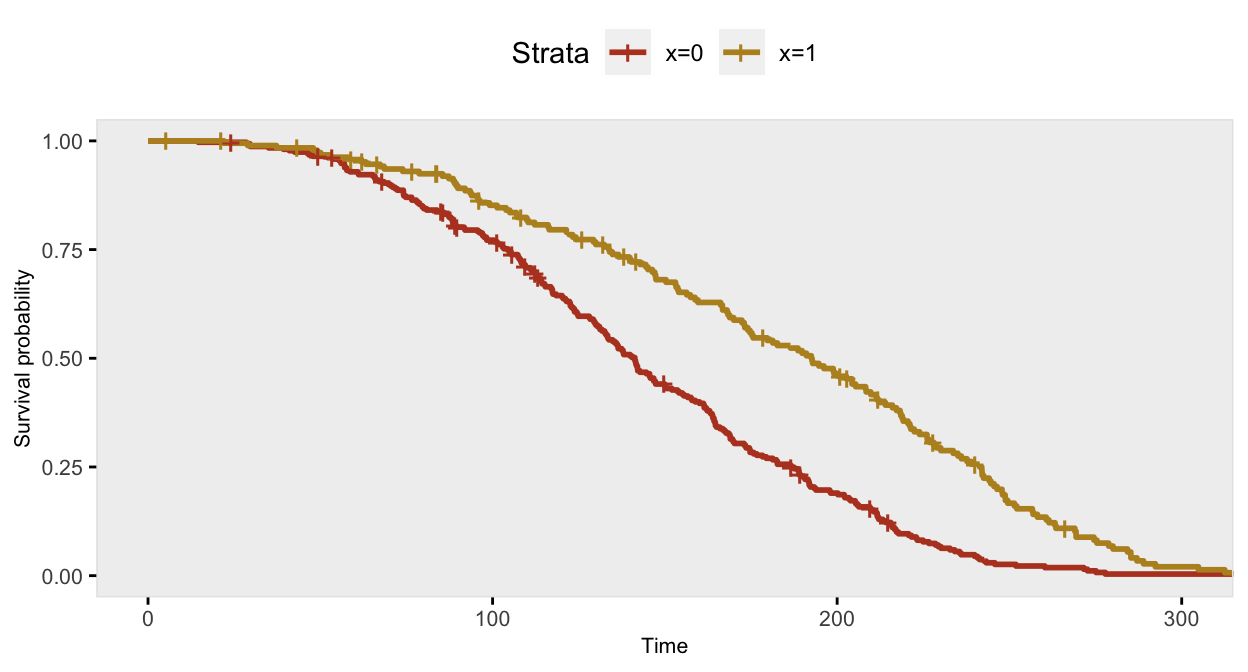
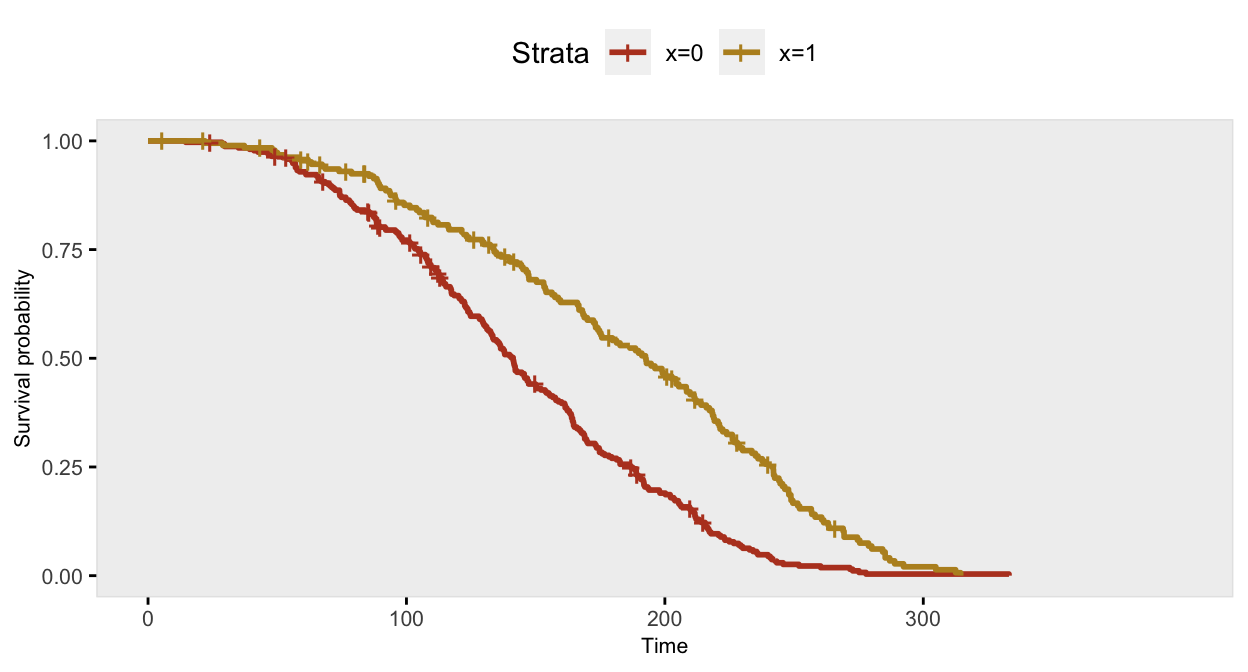
Updating non prop draft

diff --git a/content/post/2022-03-08-simulating-non-proportional-hazards/index.en.html b/content/post/2022-03-08-simulating-non-proportional-hazards/index.en.html
@@ -1,5 +1,5 @@
 ---
-title: Simulating non-proportional hazards
+title: Simulating time-to-event outcomes with non-proportional hazards
 author: Package Build
 date: '2022-03-08'
 slug: []
@@ -16,47 +16,39 @@ draft: TRUE
 <script src="{{< blogdown/postref >}}index.en_files/header-attrs/header-attrs.js"></script>
 
 
+<p>I am working on an update of <code>simstudy</code> that will make generating survival/time-to-event data a bit more flexible. There are two biggish enhancements. The first allows for the possibility of generating survival data that has time-dependent hazard ratios, and the second facilitates generation of competing events. This post focuses on the first enhancement, and a follow up will provide examples of the second. (If you want to try this at home, you will need the development version of <code>simstudy</code> that you can install using <strong>devtools::install_github(“kgoldfeld/simstudy”)</strong>.)</p>
+<div id="constantproportional-hazard-ratio" class="section level3">
+<h3>Constant/proportional hazard ratio</h3>
+<p>In the current version of <code>simstudy 0.4.0</code> on <code>CRAN</code>, the data generation process for survival/time-to-event outcomes can include covariates that effect the hazard rate (which is the risk/probability of having an event conditional on not having had experienced that event earlier). The ratio of hazards comparing different levels of a covariate are constant across all time points. For example, if we have a single binary covariate <span class="math inline">\(x\)</span>, the hazard <span class="math inline">\(\lambda(t)\)</span> at time <span class="math inline">\(t\)</span> is
+<span class="math display">\[\lambda(t|x) = \lambda_0(t) e ^ {\beta x}\]</span>
+where <span class="math inline">\(\lambda_0(t)\)</span> is a baseline hazard when <span class="math inline">\(x=0\)</span>. The ratio of the hazards for <span class="math inline">\(x=1\)</span> compared to <span class="math inline">\(x=0\)</span> is
+<span class="math display">\[\frac{\lambda_0(t) e ^ {\beta}}{\lambda_0(t)} = e ^ \beta,\]</span>
+so the log of the hazard ratio is a constant <span class="math inline">\(\beta\)</span>, and the hazard ratio is always <span class="math inline">\(e^\beta\)</span>. To start, here is an example assuming a constant log hazard ratio of <span class="math inline">\(-0.7\)</span>:</p>
 <pre class="r"><code>library(simstudy)
 library(data.table)
-library(survival)
-library(survminer)
-library(ggplot2)</code></pre>
-<pre class="r"><code>cbbPalette &lt;- c(&quot;#B84226&quot;,&quot;#B88F26&quot;, &quot;#A5B435&quot;, &quot;#1B8446&quot;,
-                &quot;#B87326&quot;,&quot;#B8A526&quot;, &quot;#6CA723&quot;, &quot;#1C5974&quot;) 
-
-ggtheme &lt;- function(panelback = &quot;white&quot;) {
-  
-  ggplot2::theme(
-    panel.background = ggplot2::element_rect(fill = panelback),
-    panel.grid = ggplot2::element_blank(),
-    axis.ticks =  ggplot2::element_line(colour = &quot;black&quot;),
-    panel.spacing = ggplot2::unit(0.25, &quot;lines&quot;),  # requires package grid
-    panel.border = ggplot2::element_rect(fill = NA, colour=&quot;gray90&quot;), 
-    plot.title = ggplot2::element_text(size = 8,vjust=.5,hjust=0),
-    axis.text = ggplot2::element_text(size=8),
-    axis.title = ggplot2::element_text(size = 8)
-  )  
-  
-}</code></pre>
-<p>In the standard <code>simstudy</code> data generation process for survival/time-to-event outcomes that includes covariates that effect the hazard rate at various time points, the ratio of hazards comparing different levels of a covariate are constant across all time points. For example, if we have a single binary covariate <span class="math inline">\(x\)</span>, the hazard <span class="math inline">\(\lambda(t)\)</span> at time <span class="math inline">\(t\)</span> is</p>
-<p><span class="math display">\[\lambda(t|x) = \lambda_0(t) e ^ {\beta x}\]</span>
-where <span class="math inline">\(\lambda_0(t)\)</span> is a baseline hazard when <span class="math inline">\(x=0\)</span>. The ratio of the hazards for <span class="math inline">\(x=1\)</span> compared to <span class="math inline">\(x=0\)</span> is</p>
-<p><span class="math display">\[\frac{\lambda_0(t) e ^ {\beta}}{\lambda_0(t)} = e ^ \beta,\]</span></p>
-<p>so the log of the hazard ratio is a constant <span class="math inline">\(\beta\)</span>, and the hazard ratio is always <span class="math inline">\(e^\beta\)</span>.</p>
-<p>However, we may not always want to make the assumption that the hazard ratio is constant over all time periods. To facilitate this, it is possible to specify two different data definitions for the same outcome, using the <em>transition</em> field to specify when the second definition replaces the first. (While it would theoretically be possible to generate data for more than two periods, the process is more involved, and has not been implemented at this time.)</p>
-<p><br></p>
-<p><strong>Constant/proportional hazard ratio</strong></p>
-<p>To start, here is an example assuming a constant log hazard ratio of -0.7:</p>
+library(survival)</code></pre>
 <pre class="r"><code>def &lt;- defData(varname = &quot;x&quot;, formula = 0.4, dist = &quot;binary&quot;)
 
-defS &lt;- defSurv(varname = &quot;death&quot;, formula = &quot;-14.6 - 0.7*x&quot;, shape = 0.35)
+defS &lt;- defSurv(varname = &quot;death&quot;, formula = &quot;-14.6 - 0.7 * x&quot;, shape = 0.35)
 defS &lt;- defSurv(defS, varname = &quot;censor&quot;, scale = exp(13), shape = 0.5)
 
 set.seed(7361)
 dd &lt;- genData(500, def)
 dd &lt;- genSurv(dd, defS, digits = 2, timeName = &quot;time&quot;, censorName = &quot;censor&quot;)
-
-fit &lt;- survfit(Surv(time, event) ~ x, data = dd)</code></pre>
+dd</code></pre>
+<pre><code>##       id x   time event   type
+##   1:   1 0 164.98     1  death
+##   2:   2 1 247.84     1  death
+##   3:   3 0  28.54     1  death
+##   4:   4 0 138.05     1  death
+##   5:   5 0 228.53     1  death
+##  ---                          
+## 496: 496 0  79.47     1  death
+## 497: 497 1   5.41     0 censor
+## 498: 498 1 211.54     1  death
+## 499: 499 0 240.73     1  death
+## 500: 500 1 256.66     1  death</code></pre>
+<p>Here is a Kaplan-Meier plot comparing survival curves for cases where <span class="math inline">\(x=0\)</span> with cases where <span class="math inline">\(x=1\)</span>. This is what a proportional hazard rate looks like:</p>
 <p><img src="{{< blogdown/postref >}}index.en_files/figure-html/unnamed-chunk-4-1.png" width="624" /></p>
 <p>The Cox proportional hazards model recovers the correct log hazards rate:</p>
 <pre class="r"><code>coxfit &lt;- coxph(formula = Surv(time, event) ~ x, data = dd)</code></pre>
@@ -431,25 +423,26 @@ fit &lt;- survfit(Surv(time, event) ~ x, data = dd)</code></pre>
   </tfoot>
 </table>
 </div>
-<p>We can test the assumption of proportional hazards using weighted residuals. If the <span class="math inline">\(\text{p-value} &lt; 0.05\)</span>, then we would conclude that the assumption of proportional hazards is not warranted. In this case <span class="math inline">\(p = 0.22\)</span>, so the model is apparently reasonable:</p>
+<p>Since we know that we used proportional hazards to generate the data, we can expect that a test evaluating the proportional hazards assumption using weighted residuals will confirm that the assumption is met. If the <span class="math inline">\(\text{p-value} &lt; 0.05\)</span>, then we would conclude that the assumption of proportional hazards is not warranted. In this case <span class="math inline">\(p = 0.68\)</span>, so the model is apparently reasonable (which we already knew):</p>
 <pre class="r"><code>cox.zph(coxfit)</code></pre>
 <pre><code>##        chisq df    p
 ## x       0.17  1 0.68
 ## GLOBAL  0.17  1 0.68</code></pre>
-<p><br></p>
-<p><strong>Non-constant/non-proportional hazard ratio</strong></p>
+</div>
+<div id="non-constantnon-proportional-hazard-ratio" class="section level3">
+<h3>Non-constant/non-proportional hazard ratio</h3>
+<p>When generating data, we may not always want to be limited to a situation where the hazard ratio is constant over all time periods. To facilitate this, it is possible to specify two different data definitions for the same outcome, using the <em>transition</em> field to specify when the second definition replaces the first. (While it would theoretically be possible to generate data for more than two periods, the process is more involved, and has not been implemented.)</p>
 <p>In this next case, the risk of death when <span class="math inline">\(x=1\)</span> is lower at all time points compared to when <span class="math inline">\(x=0\)</span>, but the relative risk (or hazard ratio) changes at 150 days:</p>
-<pre class="r"><code>def &lt;- defData(varname = &quot;x&quot;, formula = 0.4, dist = &quot;binary&quot;)
+<pre class="r"><code>def &lt;- defData(varname = &quot;x&quot;, formula = 0.4, dist=&quot;binary&quot;)
 
-defS &lt;- defSurv(varname = &quot;death&quot;, formula = &quot;-14.6 - 1.3*x&quot;, shape = 0.35, transition = 0)
-defS &lt;- defSurv(defS, varname = &quot;death&quot;, formula = &quot;-14.6 - 0.4*x&quot;, shape = 0.35,
-    transition = 150)
-defS &lt;- defSurv(defS, varname = &quot;censor&quot;, scale = exp(13), shape = 0.5)
+defS &lt;- defSurv(varname = &quot;death&quot;, formula = &quot;-14.6 - 1.3 * x&quot;, 
+  shape = 0.35, transition = 0)
+defS &lt;- defSurv(defS, varname = &quot;death&quot;, formula = &quot;-14.6 - 0.4 * x&quot;, 
+  shape = 0.35, transition = 150)
+defS &lt;- defSurv(defS, varname = &quot;censor&quot;, scale = exp(13), shape = 0.50)
 
 dd &lt;- genData(500, def)
-dd &lt;- genSurv(dd, defS, digits = 2, timeName = &quot;time&quot;, censorName = &quot;censor&quot;)
-
-fit &lt;- survfit(Surv(time, event) ~ x, data = dd)</code></pre>
+dd &lt;- genSurv(dd, defS, digits = 2, timeName = &quot;time&quot;, censorName = &quot;censor&quot;)</code></pre>
 <p>The survival curve for the sample with <span class="math inline">\(x=1\)</span> has a slightly different shape under this data generation process compared to the previous example under a constant hazard ratio assumption; there is more separation early on (prior to day 150), and then the gap is closed at a quicker rate.</p>
 <p><img src="{{< blogdown/postref >}}index.en_files/figure-html/unnamed-chunk-9-1.png" width="624" /></p>
 <p>If we ignore the possibility that there might be a different relationship over time, the Cox proportional hazards model gives an estimate of the log hazard ratio quite close to -0.70:</p>
@@ -1219,3 +1212,11 @@ coxfit2 &lt;- survival::coxph(Surv(tstart, time, event) ~ x:strata(tgroup), data
 <pre><code>##                  chisq df   p
 ## x:strata(tgroup)  1.38  2 0.5
 ## GLOBAL            1.38  2 0.5</code></pre>
+<p>If you are interested, the actual data generation process is based on an algorithm that was described in this <a href="https://onlinelibrary.wiley.com/doi/10.1002/sim.5452" target="_blank">paper</a> by Peter Austin.</p>
+<p>
+<p><small><font color="darkkhaki">
+Reference:</p>
+Austin, Peter C. “Generating survival times to simulate Cox proportional hazards models with time‐varying covariates.” Statistics in medicine 31, no. 29 (2012): 3946-3958.
+</font></small>
+</p>
+</div>
